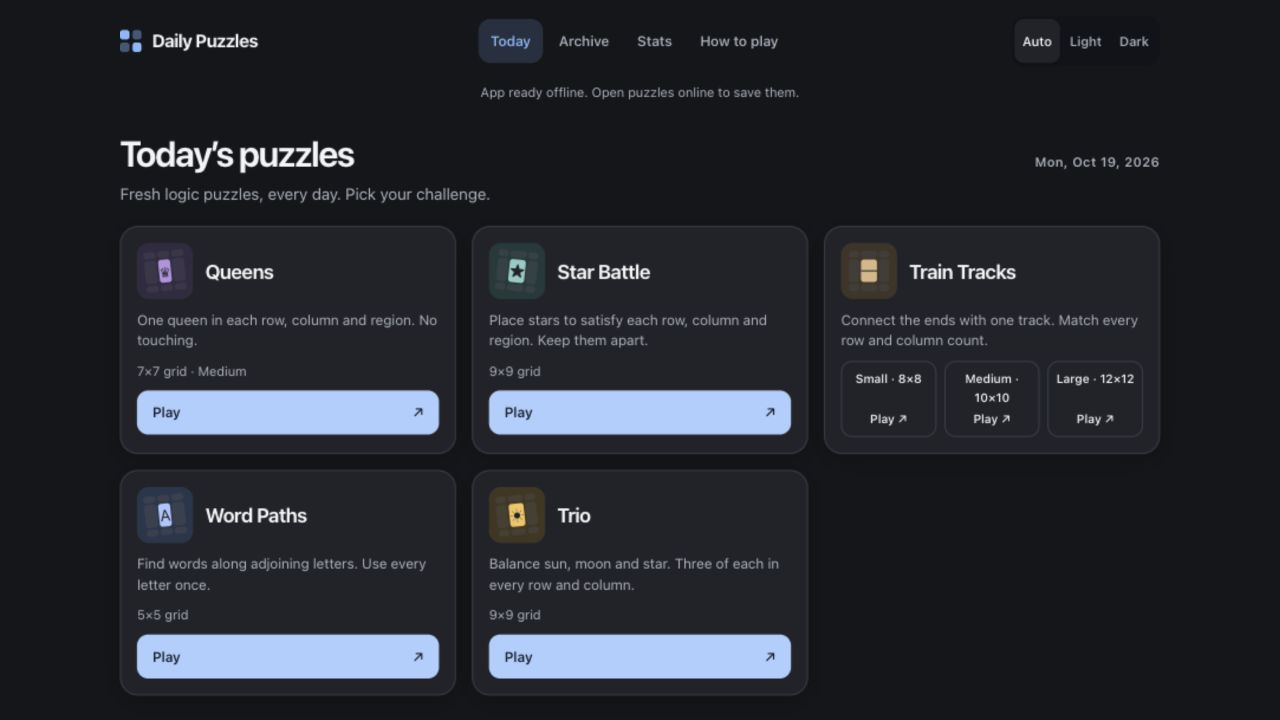
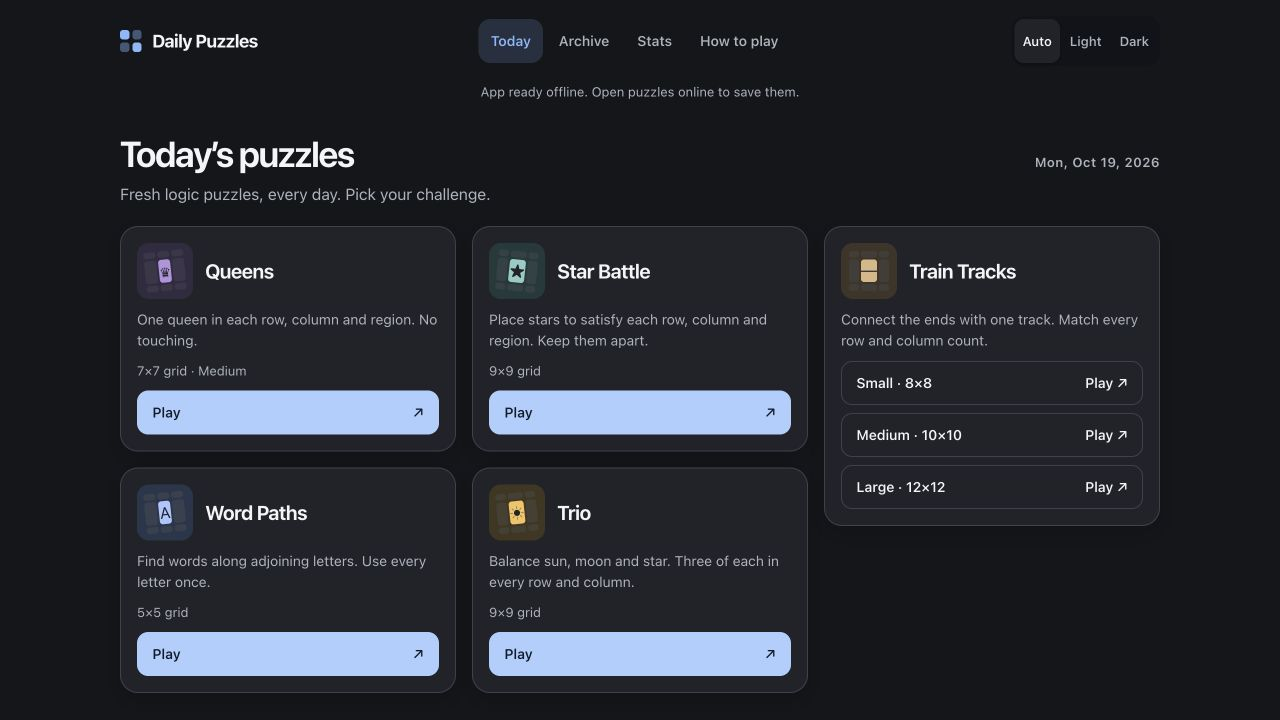
fix: give Train Tracks choices full-width rows

diff --git a/app/src/App.css b/app/src/App.css
@@ -1194,10 +1194,7 @@
   .today-heading .page-title { grid-column: 1; grid-row: 1; margin: 0; }
   .today-heading .eyebrow { grid-column: 2; grid-row: 1; margin: 0; }
   .today-heading .page-intro { grid-column: 1 / -1; }
-  .track-variants { grid-template-columns: repeat(3, minmax(0, 1fr)); }
-  .track-choice { height: 100%; flex-direction: column; gap: 0.25rem; padding: 0.5rem 0.125rem; font-size: 0.75rem; text-align: center; }
-  .track-unpublished { padding: 0.5rem 0.125rem; font-size: 0.75rem; text-align: center; }
-  .track-unpublished .game-card-state { padding-top: 0; font-size: inherit; }
+  .game-train-tracks { grid-column: 3; grid-row: 1 / span 2; align-self: start; }
 }
 
 /* Word Paths follows the finger directly; no gesture animation or scroll pan. */

diff --git a/docs/journal.md b/docs/journal.md
@@ -1431,9 +1431,11 @@ are unchanged.
 ## 2026-10-19 — Compact Today and more room for Trio
 
 Today's heading now shares its first desktop row with the date. Smaller motif
-tiles sit beside game names, and the three Train Tracks sizes sit side by side
-on desktop. At 1280×720, all five unplayed game cards end at 695px instead of
-requiring a second screen. Phones retain full-width track-size choices.
+tiles sit beside game names. Train Tracks occupies a taller card in the last
+desktop column, with three full-width size choices; every label stays on one
+line at both 801px and 1280px widths. At 1280×720, all five unplayed game cards
+end at 693px instead of requiring a second screen. Phones retain full-width
+track-size choices.
 
 Removed the sticky header's decorative fade: it extended over the offline
 status text and made the first line look clipped. No extra header height was
